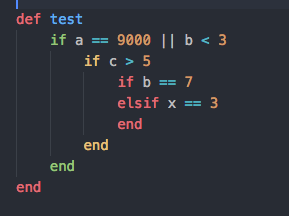
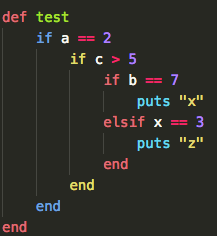
Colors customization

diff --git a/src/extension.ts b/src/extension.ts
@@ -4,13 +4,13 @@ import * as vscode from 'vscode';
 
 const deepDecorations = [
 	vscode.window.createTextEditorDecorationType({
-		color: "#e06c75"
+		color: {id: "rainbowend.deep1"}
 	}),
 	vscode.window.createTextEditorDecorationType({
-		color: '#98c379',
+		color: {id: "rainbowend.deep2"}
 	}),
 	vscode.window.createTextEditorDecorationType({
-		color: '#e5c07b',
+		color: {id: "rainbowend.deep3"}
 	})
 ];
 

diff --git a/README.md b/README.md
@@ -4,9 +4,28 @@
 
 This extension for ruby code allows to identify keyword / end with colours.
 
-![Ruby](images/1.png)
+![Ruby dark theme](images/1.png)
+![Ruby light theme](images/2.png)
+
+## Colors customization
+
+You can override the color by putting in your `settings.json`:
+
+```json
+{
+    "workbench.colorCustomizations": {
+        "rainbowend.deep1": "#e06c75",
+        "rainbowend.deep2": "#6ca2e0",
+        "rainbowend.deep3": "#e0de6c"
+    }
+}
+```
 
 ## Release Notes
+
+### 0.1.0
+
+Add colors customization
 
 ### 0.0.2
 
